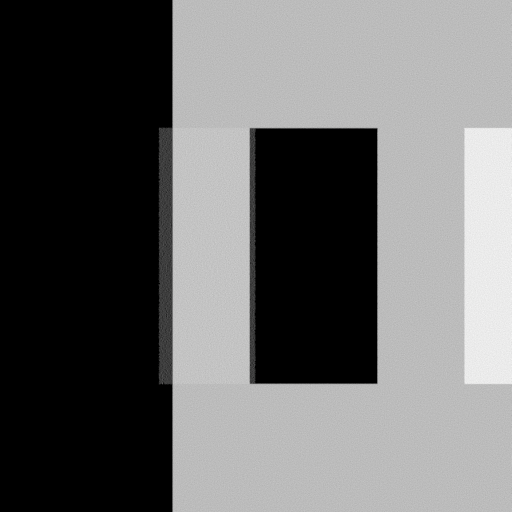
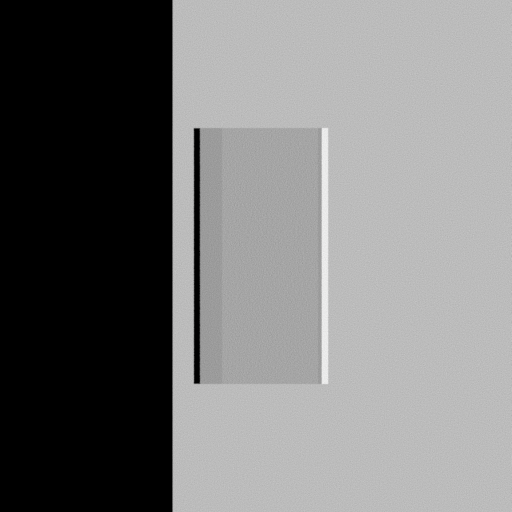
Lower default prism to a 3 cm ground clearance

Changed region(s): [[0.375, 0.25, 0.75, 0.75], [0.9062, 0.25, 1.0, 0.75], [0.3125, 0.25, 0.3438, 0.75]]

diff --git a/tests/config_render.rs b/tests/config_render.rs
@@ -514,7 +514,7 @@ fn traced_prism_caustics_light_the_geometric_glass_shadow_independently() {
     // 相机放在玻璃底面下方，以便单独检查同一地面位置的直射/焦散。
     scene.camera = spectral_caustics::camera::Camera::from_config(
         &spectral_caustics::config::cameraconfig::CameraConfig {
-            position: [p.x, p.y, 0.5],
+            position: [p.x, p.y, 0.015],
             target: [p.x, p.y, 0.0],
             up: [0.0, 1.0, 0.0],
             fov_y_degrees: 0.001,
@@ -537,7 +537,7 @@ fn json_camera_generates_rays_that_hit_the_configured_scene() {
     let mut config = small_config();
     // 这条已知主光线指向棱镜内部，独立于展示场景的新构图。
     config.scene.camera.position = [3.0, -5.0, 3.0];
-    config.scene.camera.target = [0.0, 0.0, 1.3];
+    config.scene.camera.target = [0.0, 0.0, 0.4];
     config.render.width = 5;
     config.render.height = 3;
     // JSON 往返后，由真实的 Scene 构建相机，再用主光线查询现有几何。
@@ -788,7 +788,7 @@ fn runtime_scene_builds_configured_vertices_ground_light_receiver_and_ids() {
     let ray = Ray::new(Vector3::new(1.0, 0.4, 4.0), Vector3::new(0.0, 0.0, -1.0)).unwrap();
     let hit = scene.intersect(&ray).unwrap();
     assert_eq!(hit.object_id, scene.prism_id);
-    assert!((hit.coords - Vector3::new(1.0, 0.4, 1.4)).norm() < 1e-12);
+    assert!((hit.coords - Vector3::new(1.0, 0.4, 0.43)).norm() < 1e-12);
     let outside = Ray::new(Vector3::new(-1.5, 0.0, 4.0), Vector3::new(0.0, 0.0, -1.0)).unwrap();
     assert_eq!(scene.intersect(&outside).unwrap().coords.z, -0.5);
     assert_eq!(scene.receiver.area(), 24.0);
@@ -1092,10 +1092,10 @@ fn executable_reads_json_from_argument_and_respects_output_size_mode_exposure_an
     // (1/π) × 1 × cos(0) × (π/2) = 0.5，sRGB 编码为 188。
     assert!(lit.pixels().all(|p| p.0 == [188, 0, 0]));
 
-    // 从侧面看玻璃下方的红色地面：主光线不经过玻璃，shadow ray 被玻璃挡住。
-    config.scene.camera.position = [3.0, 0.0, 2.0];
+    // 从 3 cm 间隙内看红色地面：主光线不经过玻璃，shadow ray 被玻璃挡住。
+    config.scene.camera.position = [1.5, 0.0, 0.02];
     config.scene.camera.target = [0.25, 0.0, 0.0];
-    config.scene.camera.fov_y_degrees = 1.0;
+    config.scene.camera.fov_y_degrees = 0.01;
     config.save(&path).unwrap();
     let output = run();
     assert!(output.status.success(), "{:?}", output);

diff --git a/src/config/sceneconfig.rs b/src/config/sceneconfig.rs
@@ -143,12 +143,12 @@ impl Default for SceneConfig {
             objects: vec![
                 ObjectConfig::Prism {
                     vertices_m: [
-                        [-0.5, -1.0, 1.0],
-                        [0.5, -1.0, 1.0],
-                        [0.0, -1.0, 1.8],
-                        [-0.5, 1.0, 1.0],
-                        [0.5, 1.0, 1.0],
-                        [0.0, 1.0, 1.8],
+                        [-0.5, -1.0, 0.03],
+                        [0.5, -1.0, 0.03],
+                        [0.0, -1.0, 0.83],
+                        [-0.5, 1.0, 0.03],
+                        [0.5, 1.0, 0.03],
+                        [0.0, 1.0, 0.83],
                     ],
                     material: MaterialConfig::default_glass(),
                 },

diff --git a/src/render/camera_debug.rs b/src/render/camera_debug.rs
@@ -47,8 +47,8 @@ mod tests {
     #[test]
     fn camera_debug_visualizes_world_normals_and_preserves_background() {
         let mut config = crate::config::sceneconfig::SceneConfig::default();
-        config.camera.position = [0.0, -4.0, 2.0];
-        config.camera.target = [0.0, 0.0, 1.0];
+        config.camera.position = [0.0, -2.0, 1.2];
+        config.camera.target = [0.0, 0.0, 0.4];
         config.camera.fov_y_degrees = 90.0;
         let scene = Scene::from_config(&config).unwrap();
         let image = render_camera_debug(&scene, 5, 3).unwrap();

diff --git a/src/render/integrator.rs b/src/render/integrator.rs
@@ -1765,8 +1765,8 @@ mod tests {
             },
             ..SceneConfig::default()
         };
-        // 相机从侧面看到三棱镜正下方的地面，只有向上的 shadow ray 命中玻璃。
-        config.camera.position = [3.0, 0.0, 2.0];
+        // 相机位于 3 cm 间隙内，只有向上的 shadow ray 命中玻璃。
+        config.camera.position = [1.5, 0.0, 0.02];
         config.camera.target = [0.25, 0.0, 0.0];
         config.camera.up = [0.0, 1.0, 0.0];
         config.background_linear_rgb = [0.2, 0.3, 0.4];

diff --git a/README.md b/README.md
@@ -37,6 +37,8 @@
 
 **V0.4 阶段 18 已将配置场景的地面限制为有限矩形。** 默认在 receiver 四边各外扩 `0.5 m`，地面范围为 `[-2.5,2.5] × [-2.5,2.5]`，略大于 receiver 的 `[-2,2] × [-2,2]`。超出地面边界的相机射线看到天空。
 
+**默认棱镜已整体降低至离地 3 cm。** 地面仍为 `z=0`，配置场景的六个棱镜顶点整体下移 `0.97 m`：底面 `z=0.03 m`，顶棱 `z=0.83 m`，截面高度仍为 `0.8 m`。JSON 和 Rust 场景默认值保持一致。
+
 **已接入双线性光子累积。** `render::utils::bilinear_weights` 根据落点的小数位置计算四个邻近像素及其权重，`caustics.rs` 将线性 XYZ 能量按权重分配；接收区域内的边缘落点也保留全部能量。这对应 Day 6 中的双线性 splat 子项。
 
 **发射采用分层随机采样。** 每个小格各发射一条光线，x、y 分别使用独立的随机偏移。`StdRng` 使用固定种子 `42`；每次渲染都重新初始化，因此无三棱镜和折射图共享同一组发射位置，命中或丢弃光线不会改变后续采样序列。
@@ -69,7 +71,7 @@
 
 `Triangle::new(v0, v1, v2)` 保存三个顶点并缓存两条边和单位几何法线，拒绝非有限顶点、退化三角形及计算溢出。法线按 `(v1 - v0) × (v2 - v0)` 定向，顶点和缓存保持私有，保证二者一致。求交采用双面的 Möller–Trumbore 算法，求解 `origin + t * direction = v0 + u * edge1 + v * edge2`；交点需满足 `u >= 0`、`v >= 0`、`u + v <= 1`，以及正向距离 `distance > 1e-6` 米。算法填写 `Hit.coords/normal/distance`，其余预留字段沿用默认值，`Hit` 本身保持纯数据结构。
 
-`Prism::new()` 使用默认六顶点，`Prism::from_vertices` 使用配置的六顶点并检查凸性、退化和法线方向；均组成 8 个三角形：两个三角形端面，加上三个各拆成两个三角形的矩形侧面。三角截面沿 y 轴从 `-1` 米拉伸至 `1` 米，底面为 `z = 1` 米，顶棱为 `z = 1.8` 米；所有三角形法线朝外。求交遍历所有面并取最近有效交点，支持从内部寻找出射面。
+`Prism::new()` 保留几何示例的六顶点（底面 `z=1 m`、顶棱 `z=1.8 m`）；配置场景通过 `Prism::from_vertices` 读取实际六顶点，当前底面为 `z=0.03 m`、顶棱为 `z=0.83 m`。两者均检查凸性、退化和法线方向，并组成 8 个三角形：两个三角形端面，加上三个各拆成两个三角形的矩形侧面。三角截面沿 y 轴从 `-1` 米拉伸至 `1` 米，所有三角形法线朝外。求交遍历所有面并取最近有效交点，支持从内部寻找出射面。
 
 `scene::Scene::new()` 创建空场景，保存 `objects: Vec<SceneObject>`、运行时相机、光源、地面接收区域与背景色。每个 `SceneObject` 绑定 `geometry: Box<dyn Hittable>` 与可选的材质编号，材质由场景的 `Vec<Box<dyn Material>>` 持有。图片宽高归 `RenderSetting` 和运行时 `Render` 管理。`Scene::from_config(&config.scene)` 根据 JSON 中的类型和顶点构建物体并记录地面/三棱镜编号。`Box<dyn Hittable>` 让不同具体类型的几何保存在同一个集合中，通过 `add` 显式添加；返回的下标用于识别命中物体：
 

diff --git a/ROADMAP.md b/ROADMAP.md
@@ -398,6 +398,13 @@ n(\lambda)=A+\frac{B}{\lambda_{\mu m}^{2}}
 - **验收：** `cargo fmt`、`cargo fmt --check`、`cargo test --locked --quiet`（221 项单元测试、18 项集成测试）、严格 `cargo clippy --locked --all-targets -- -D warnings` 及 `git diff --check` 通过。release 主程序和三个相机 examples 实际运行成功，已查看 512×512、64 SPP 的 Combined 与单路径直接光调试图；16 张已有 PNG 均为 RGB8，仅五张含环境照明的相机图变化，纯 Caustics、光子图和法线调试等十一张逐字节不变。
 - **范围与限制：** 环境遮挡为二值，玻璃也遮挡；不追踪透明环境阴影、环境透射焦散或漫反射间接反弹。默认每路径 1 个环境样本，有 Monte Carlo 噪声；下一阶段可单独改善方差或实现玻璃环境透射。
 
+### V0.4 阶段 20 — 默认棱镜保留 3 cm 离地间隙
+
+- [x] 以用户指定的 3 cm 间隙为目标，将默认场景六顶点整体下移 `0.97 m`（97 cm）：底面 `z=0.03 m`，顶棱 `z=0.83 m`，棱镜形状和尺寸保持不变。配置坐标单位为米。
+- [x] 同步 JSON 与 `SceneConfig::default`，更新依赖旧棱镜高度的法线/阴影/求交测试参考位置；`Prism::new` 几何示例保留原坐标。
+- **验收：** 六顶点位移、3 cm 离地间隙及 0.8 m 截面高度核对通过；`cargo fmt`、`cargo fmt --check`、221 项单元测试、18 项集成测试、严格 `cargo clippy --locked --all-targets -- -D warnings` 和 `git diff --check` 通过。release 主程序及三个相机 examples 实际运行成功，已查看更新的 512×512、64 SPP Combined。
+- **范围与限制：** 本次仅调整配置场景位置；相机、光源、采样参数和光照模型保持原设置。下一步可按新的棱镜高度单独调整相机构图。
+
 ## 6. Codex 执行约定
 
 1. **每次只实现当前一个里程碑**，完成后总结修改文件、运行命令、测试结果和下一步；不要抢跑后续阶段。
